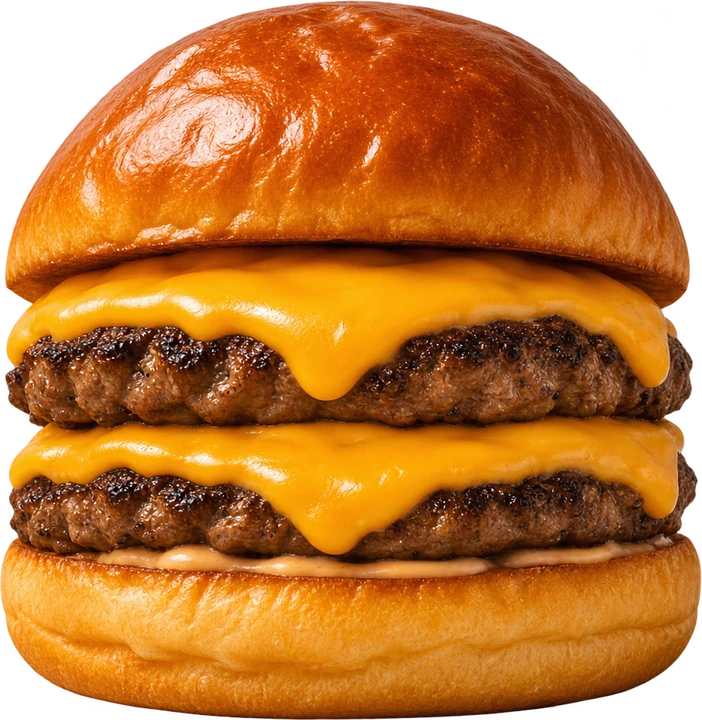
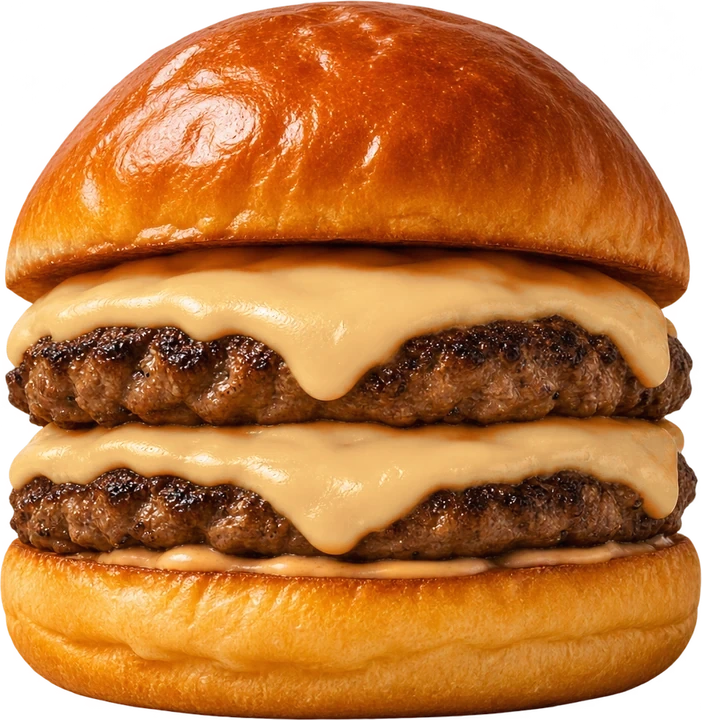
White cheddar across all burger photos, organic white cheddar copy, new share image filename

Changed region(s): [[0.0, 0.3361, 0.9872, 0.7639]]

diff --git a/src/content/site.ts b/src/content/site.ts
@@ -172,16 +172,16 @@ export const menu = {
         {
           id: "cheese",
           name: "The Cheeseburger",
-          copy: "100% grass-fed, grass-finished US beef cooked in tallow, with melted organic cheddar on a local sourdough bun.",
+          copy: "100% grass-fed, grass-finished US beef cooked in tallow, with melted organic white cheddar on a local sourdough bun.",
           image: "/images/menu/cheese.webp",
           alt: "Cheeseburger: a seared grass-fed beef patty with melted cheddar on a toasted bun",
           price: "$15",
-          detail: "Our signature. Add house-made fermented pickles and special sauce.",
+          detail: "Our signature, with grass-fed organic farmhouse white cheddar. Add house-made fermented pickles and special sauce.",
         },
         {
           id: "double",
           name: "The Double",
-          copy: "Two 100% grass-fed, grass-finished US beef patties and melted organic cheddar, on a local sourdough bun.",
+          copy: "Two 100% grass-fed, grass-finished US beef patties and melted organic white cheddar, on a local sourdough bun.",
           image: "/images/menu/double.webp",
           alt: "Double cheeseburger: two seared beef patties with melted cheddar on a toasted bun",
           price: "$17",
@@ -190,7 +190,7 @@ export const menu = {
         {
           id: "carnivore",
           name: "Saladino Style",
-          copy: "No bun. 100% grass-fed, grass-finished US beef and melted organic cheddar, cooked in tallow.",
+          copy: "No bun. 100% grass-fed, grass-finished US beef and melted organic white cheddar, cooked in tallow.",
           image: "/images/menu/carnivore.webp",
           alt: "Two seared beef patties with melted cheddar and no bun",
           price: "$14",

diff --git a/src/app/layout.tsx b/src/app/layout.tsx
@@ -29,7 +29,7 @@ export const metadata: Metadata = {
     siteName: site.name,
     title: "Mr. Tallow's | Rewriting American Fast Food",
     description: site.description,
-    images: [{ url: "/og.jpg", width: 1200, height: 630, alt: "The Mr. Tallow's logo beside a cheeseburger and fries on a walnut board against a limestone wall" }],
+    images: [{ url: "/og-v2.jpg", width: 1200, height: 630, alt: "The Mr. Tallow's logo beside a cheeseburger and fries on a walnut board against a limestone wall" }],
   },
   twitter: { card: "summary_large_image" },
   icons: { icon: [{ url: "/brand/favicon.svg", type: "image/svg+xml" }, { url: "/brand/icon.png" }], apple: "/brand/apple-icon.png" },
